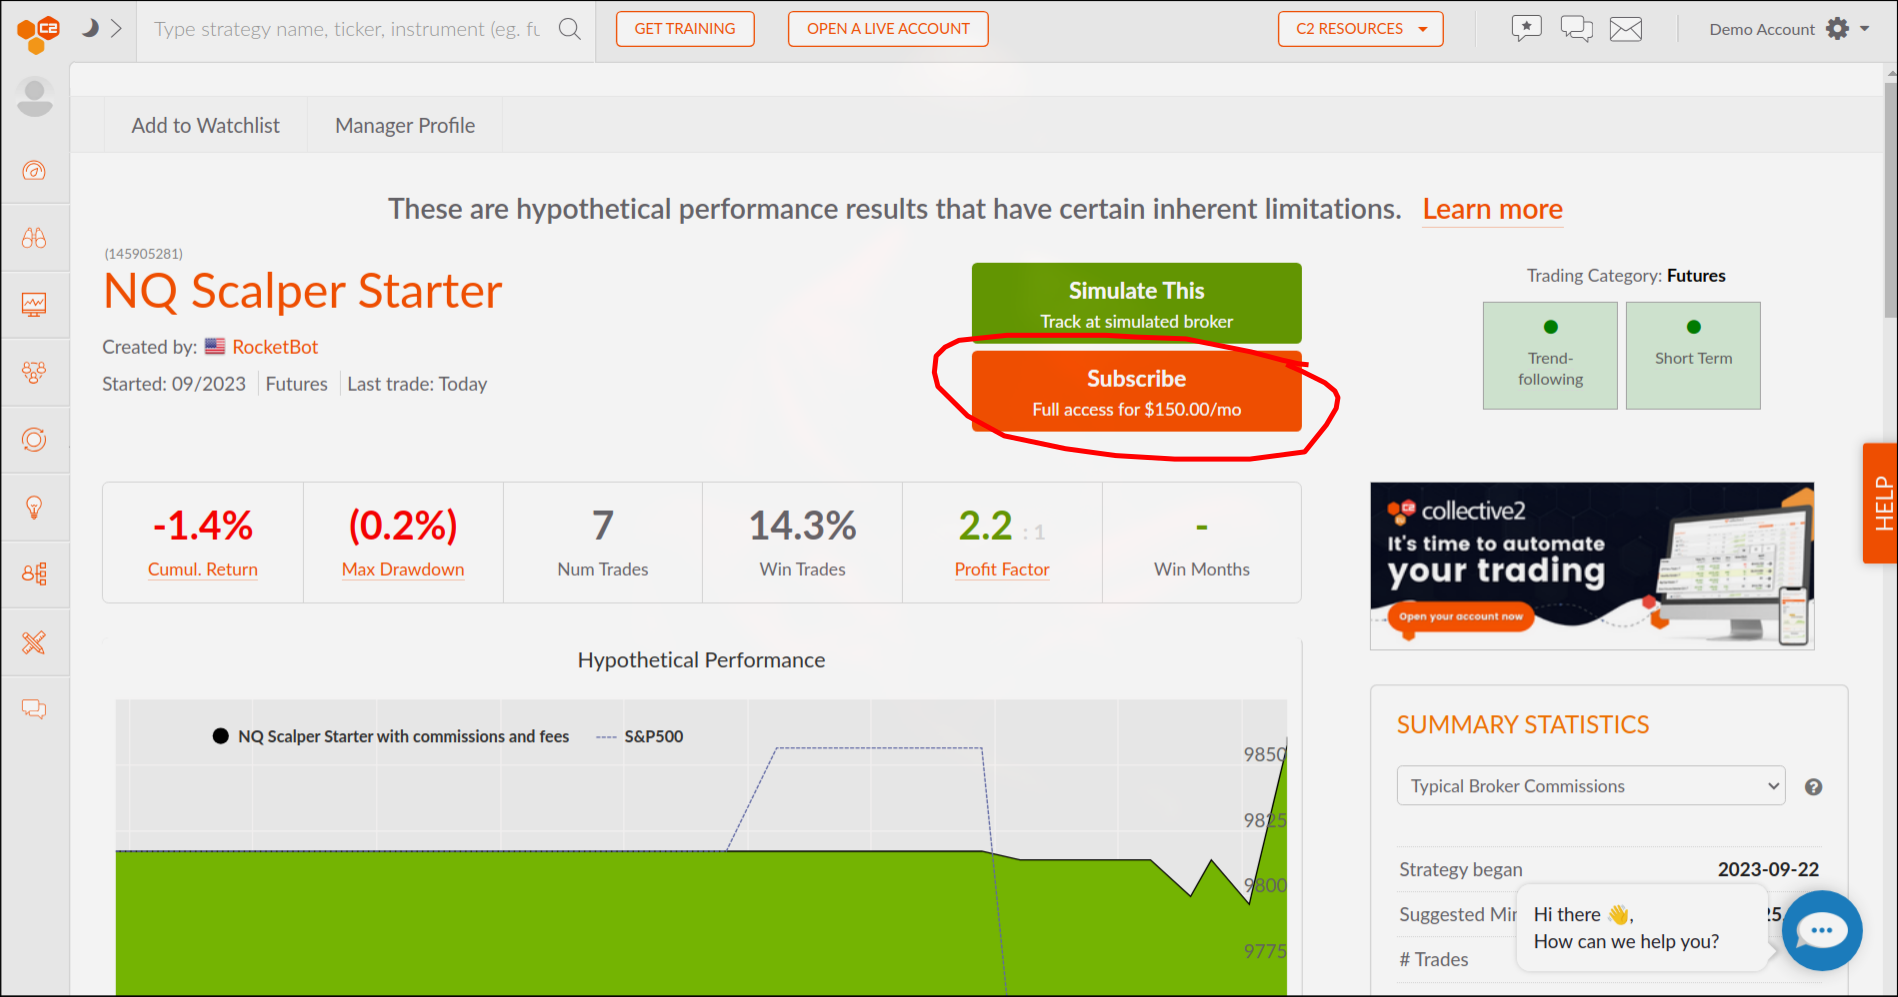
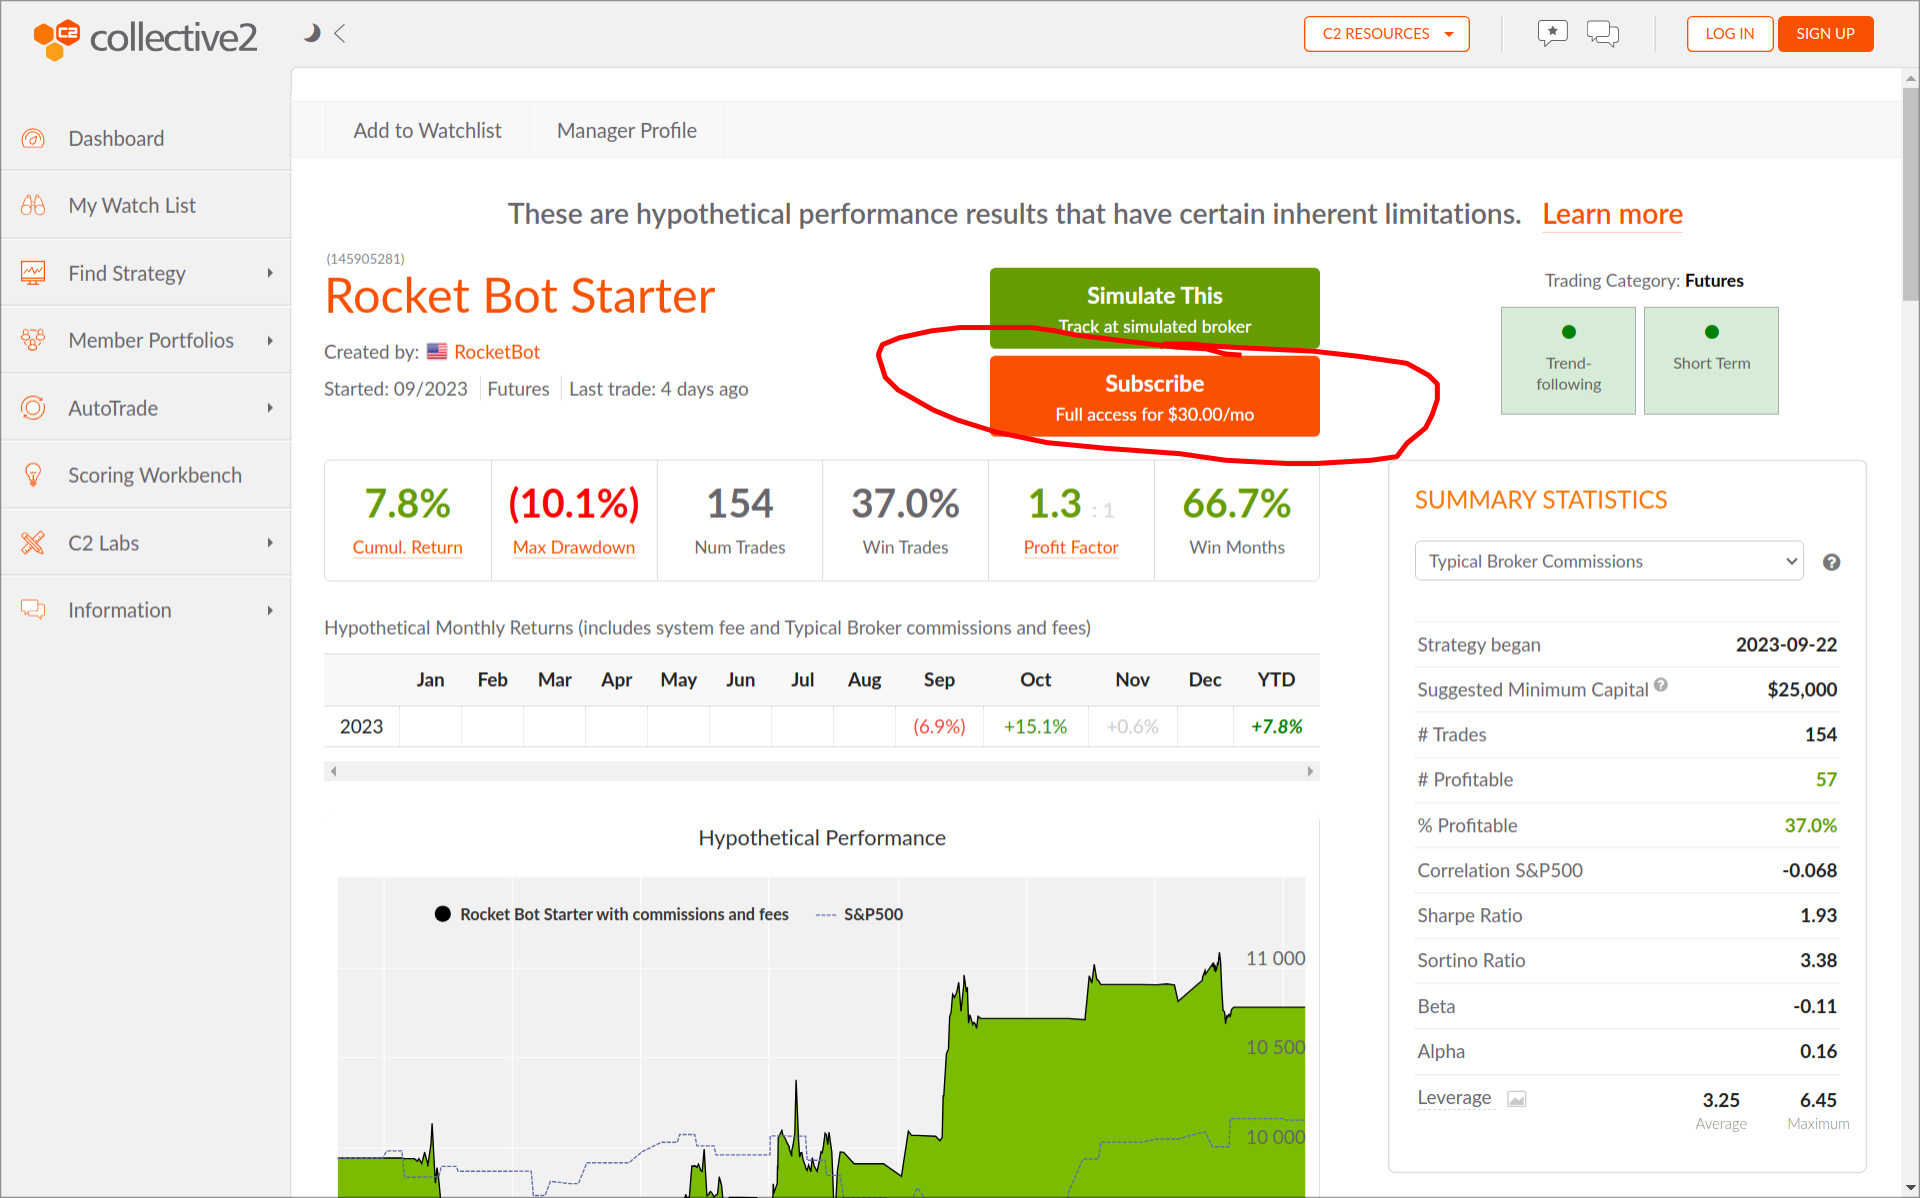
feat: updates and fixes for latest information

diff --git a/docs/howto/collective2_connect.md b/docs/howto/collective2_connect.md
@@ -4,8 +4,7 @@ One you have created a [brokerage account](/brokers), and a [C2 account](/howto/
 
 ## Subscribe to the strategy
 
-Check on rocket bot's website, which 
-First, choose the strategy you want to trade, by looking at the catalogue of strategies on the [Rocket bot website](https://rb-website-seven.vercel.app/).
+First, subscribe to our flagship strategy: [Rocket Bot Starter](https://collective2.com/details/145905281).
 
 Once you land on the strategy page, make sure to click on the Subscribe button.
 
@@ -36,7 +35,7 @@ You will be told that you to setup Autotrader to connect your broker.
 
 The first thing you need to do is setup and pay for Auto-Trade.
 
-AutoTrading lets you choose any strategy on this Web site and have its trades placed automatically in your real-life brokerage account.
+AutoTrade, is a feature created and maintained by Collective2 that allows you to choose any strategy on their website, subscribe to it, and connect ti directly to your broker account. No more setup required on your behalf, and you do NOT need to move your funds outside of your own trading accounts.
 
 <figure markdown>
   ![Image title](/Pictures/c2/setup-3.png){ width="90%" }
@@ -83,3 +82,4 @@ Setting AMP is similar, but it requires your CQG account, and MT5 account, which
   ![Image title](Pictures/c2/c2-amp-1.png){ width="90%" }
   <figcaption>Enter CQG and AMP account numbers</figcaption>
 </figure>
+

diff --git a/docs/howto/collective2_setup.md b/docs/howto/collective2_setup.md
@@ -10,11 +10,11 @@ We are using it because it simplifies a lot of the hurdles we might face when of
 Here's key facts to know:
 
 1. With collective 2, you do NOT have to give us your money. It stays safely in your brokerage account.
-2. Collective 2 charges you a fee in order to connect to your brokerage account and mirror the trades from rocket bot
-3. We charge you a flat monthly fee in order to manage your strategy. 
+2. Collective 2 charges a fee in order to connect to your brokerage account and mirror the trades from rocket bot
+3. We charge a flat monthly fee in order to manage your strategy. 
    
 Traditional hedge fund charge a 2% management fee regardless of performance, and then take around 20% of the profits they generate to you.
-With Collective 2, you don't get charged the 20% performance fee, and the management fee is not a function of capital.
+With Collective 2, you don't get charged the 20% performance fee, and the management fee is not a function of capital but a flat monthly fee!
 
 ## Collective 2 account creation
 
@@ -40,3 +40,7 @@ The last step will be phone verification.
   <figcaption>Phone Verification</figcaption>
 </figure>
 
+## Broker Connection
+
+Once you have created your account and succesfully verified it, it is time to connect it to your broker.
+Head over [here](/howto/collective2_connect) for instructions.

diff --git a/docs/howto/rocket_bot_subscribe.md b/docs/howto/rocket_bot_subscribe.md
@@ -1,0 +1,22 @@
+---
+status: new
+---
+
+# RocketBot Subscription
+
+Before proceeding, please make sure that you have:
+
+1. [Created a Brokerage account](/brokers)
+2. [Created a collective2 account](/howto/collective2_setup)
+3. [Connected your broker with Collective 2](/howto/collective2_connect)
+
+## Finding the Rocket Bot Starter Strategy
+
+Our Flagship strategy is the `Starter` strategy. You can find it [here](https://collective2.com/details/145905281)
+
+
+<figure markdown>
+  ![RocketBot Starter](Pictures/c2/rocket-bot-starter.png){ width="90%" }
+  <figcaption>Rocket Bot Starter</figcaption>
+</figure>
+

diff --git a/docs/brokers/ibkr_setup.md b/docs/brokers/ibkr_setup.md
@@ -106,3 +106,4 @@ IBKR might request for more documents along the way. Please make sure to submit 
 ## Connect to Collective 2
 
 Once your IBKR account is approved and you fund it with the minimal recommended capital, please head [here](/howto/) to learn how to connect your IBKR account with Rocket bot using Collective 2.
+

diff --git a/docs/howto/index.md b/docs/howto/index.md
@@ -1,7 +1,6 @@
-# Ways to trade
+# How to Trade
 
-In order to start trading using Rocket Bot, you need to follow 2 steps:
-
+In order to start trading using Rocket Bot, you need to follow 3 steps:
 
 1. [Create a brokerage account](/brokers/)
 2. [Create a Collective 2 account](/howto/collective2_setup)
